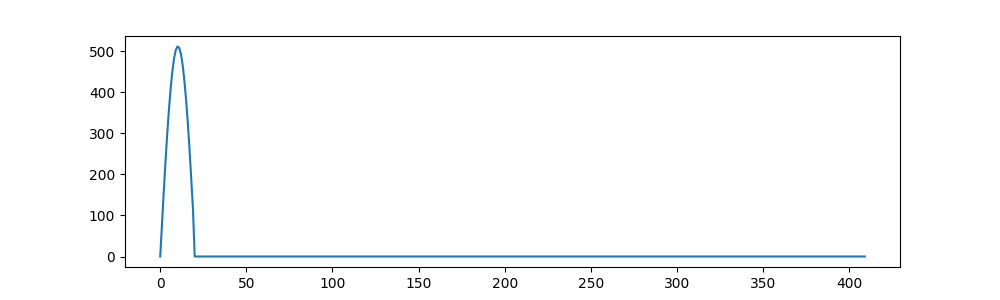
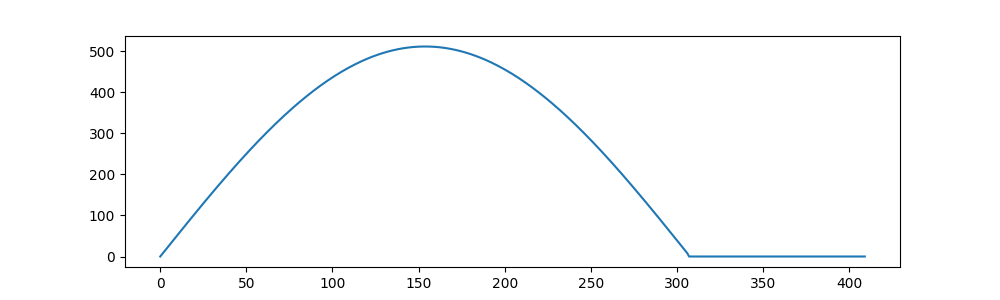
backup

diff --git a/framework_heartsim_continuous.py b/framework_heartsim_continuous.py
@@ -11,237 +11,8 @@ import time
 import paho.mqtt.client as mqtt
 import threading
 from scipy import signal
-import netifaces
 
-
-
-"""
-************************ Used for Label Upload ************************
-"""
-
-
-# def get_mac(interface='eth0'):
-#     return netifaces.ifaddresses(interface)[netifaces.AF_LINK][0]['addr']
-
-
-def pack_beddot_data(mac_addr, timestamp, data_interval, data):
-    # First, convert the MAC address into byte sequence
-    mac_bytes = bytes.fromhex(mac_addr.replace(':', ''))
-    # Then, pack each data item sequentially
-    packed_data = struct.pack("!BBBBBB", *mac_bytes)
-    packed_data += struct.pack("H", len(data))  # data length
-    packed_data += struct.pack("L", timestamp)  # timestamp
-    packed_data += struct.pack("I", data_interval)  # data interval 
-
-   # pack measurement data(Blood Oxygen)
-    for item in data:
-        packed_data += struct.pack("i", item)
-    return packed_data
-
-
-# def write_mqtt(hrdata, rrdata, timestamp, fs):
-#     mac_addr=get_mac()
-#     timestamp = int(timestamp * 1000000)
-#     hrdata = np.int32(hrdata)
-#     rrdata = np.int32(rrdata)
-#     Ts = int((1/fs) * 1000000)
-#     packed_data_1 = pack_beddot_data(mac_addr, timestamp, Ts, hrdata) # 10000 equates to fs=1/0.01=100
-#     packed_data_2 = pack_beddot_data(mac_addr, timestamp, Ts, rrdata)
-
-#     client = mqtt.Client()
-#     # client.connect("yuantzg.com", 9183)
-#     client.connect("sensorweb.us", 1883)
-#     mqtt_thread = threading.Thread(target=lambda: client.loop_forever())
-#     mqtt_thread.start()
-
-#     mac_addr_str = mac_addr.replace(":", "")
-#     client.publish(f"/UGA/{mac_addr_str}/hrlabel", packed_data_1, qos=1)
-#     client.publish(f"/UGA/{mac_addr_str}/rrlabel", packed_data_2, qos=1)
-#     print('Published')
-#     return None
-def write_mqtt(hrdata, rrdata, timestamp, fs):
-    mac_addr="12:02:12:02:12:02"
-    timestamp = int(timestamp * 1000000)
-    hrdata = np.int32(hrdata)
-    rrdata = np.int32(rrdata)
-    Ts = int((1/fs) * 1000000)
-    packed_data_1 = pack_beddot_data(mac_addr, timestamp, Ts, hrdata) # 10000 equates to fs=1/0.01=100
-    packed_data_2 = pack_beddot_data(mac_addr, timestamp, Ts, rrdata)
-
-    client = mqtt.Client()
-    client.connect("sensorweb.us", 1883)
-    mqtt_thread = threading.Thread(target=lambda: client.loop_forever())
-    mqtt_thread.start()
-
-
-    client.publish("/UGA/120212021202/hrlabel", packed_data_1, qos=1)
-    client.publish("/UGA/120212021202/rrlabel", packed_data_2, qos=1)
-    print('Published')
-    return None
-
-"""
-************************ Used for Waveform Generation ************************
-"""
-
-
-def generate_increasing_amplitude_wave_array(i,step_size):
-    # Create an array starting from 1.1, increasing by step up to length i
-    step = step_size
-    wave_array = np.arange(1, 1 + step * i, step)
-    return wave_array
-
-
-def pulse_base(min_val, max_val, samples, duration):
-    fs = samples  # Sampling frequency in Hz
-    t = np.linspace(0, duration, fs, endpoint=False)  # 1 second duration
-    duty_cycle = 0.05  # 50% duty cycle
-    f_hr = 1
-    amp =1
-    # Generate pulse waveform
-    pulse_wave = (np.sin(2 * np.pi * f_hr * t) >= np.cos(np.pi * duty_cycle)).astype(int)
-    pulse_wave= ((pulse_wave-np.min(pulse_wave))/(np.max(pulse_wave)-np.min(pulse_wave)) * amp)
-    
-    pulse_wave = signal.resample(pulse_wave,duration*samples)
-    pulse_wave= min_val + ((pulse_wave - np.min(pulse_wave)) / (np.max(pulse_wave) - np.min(pulse_wave))) * (max_val - min_val)
-    pulse_wave = abs(pulse_wave)
-    return pulse_wave
-
-
-def pulse_gen_with_rr(min_val, max_val, samples, duration, hr, rr, rr_step):
-    wave_a = pulse_base(min_val, max_val, samples, 1)
-
-    val = int(np.round(hr/rr))
-    reps = int(np.round(rr/60*duration))
-
-    ## For RR effect
-    if hr < 120: val = val-1
-    scaling_factors = generate_increasing_amplitude_wave_array(val, rr_step)
-    rsa = np.tile(wave_a, len(scaling_factors)) * np.repeat(scaling_factors, len(wave_a))
-    wave_f = np.tile(rsa,reps)
-
-    # Without RR effect
-    # reps = int(hr)
-    # wave_f = np.tile(wave_a, reps)
-
-    new_length = duration*samples
-    wave = np.interp(np.linspace(0, len(wave_f)-1, new_length), np.arange(len(wave_f)), wave_f)
-    wave = min_val + ((wave - np.min(wave)) / (np.max(wave) - np.min(wave))) * (max_val - min_val)
-    wave = abs(wave)
-    return wave
-
-
-
-def sine_wave_base(samples, duty_cycle):
-    f_hr = 0.5 / duty_cycle
-    t = np.linspace(0, 1, samples, endpoint=False)
-    sine_wave = np.sin(2 * np.pi * f_hr * t)[:int(samples * duty_cycle)]
-    zeros = np.zeros(samples - int(samples * duty_cycle))
-    wave = np.concatenate([sine_wave, zeros])
-    return wave
-
-
-
-def sine_gen_with_rr_dc(amp, samples, duty_cycle):
-
-    f_hr = 1
-    duration = 1
-    sampling_rate = samples
-    phase = 0
-
-    val = int(duty_cycle*samples)
-    rem = samples - val
-    zer_array = np.zeros(rem)
-  
-    t = np.linspace(0, duration, int(sampling_rate * duration), endpoint=False)
-    sine_wave = np.sin(2 * np.pi * f_hr * t - phase)
-    wave = sine_wave
-
-    # wave = signal.resample(wave, val)
-    # wave = np.concatenate((zer_array, wave),axis=0)
-    wave = np.where(wave < 0, 0, wave)
-
-    return wave
-
-
-def sine_gen_with_rr_v4(min_amp, max_amp, samples, duration, hr, rr, rr_step):
-    min_val = min_amp
-    max_val = max_amp
-
-    duty_cycle = 0.75
-
-    ## Select base sine wave - with or without Duty Cycle
-    wave = sine_gen_with_rr_dc(max_val, samples, duty_cycle)
-    # wave = sine_wave_base(samples, 0.5)
-
-    ### For RR effect uncomment this
-    val = int(np.round(hr/rr))
-    reps = int(np.round(rr/60*duration))
-    if hr <140: val = val-1
-    scaling_factors = generate_increasing_amplitude_wave_array(val, rr_step)
-    rsa = np.tile(wave, len(scaling_factors)) * np.repeat(scaling_factors, len(wave))
-    wave_f = np.tile(rsa,reps)
-
-    ### For RR effect comment this
-    # reps = int(hr)
-    # wave_f = np.tile(wave, reps)
-
-    ## Resample to intended duration
-    new_length = duration*samples
-    wave = np.interp(np.linspace(0, len(wave_f)-1, new_length), np.arange(len(wave_f)), wave_f)
-    
-    ## Select Normalization
-    wave = min_val + ((wave - np.min(wave)) / (np.max(wave) - np.min(wave))) * (max_val - min_val)
-    
-    wave = abs(wave)
-    return wave
-
-
-def main(hr, rr, rr_step, max_amp, min_amp, waveform, minute, duration=300, samples=410):
-    freq = hr/60
-    delay_req = 1/(samples)
-
-    i2c = busio.I2C(board.SCL, board.SDA)
-    dac = a.MCP4725(i2c, address=0x60)
-
-    try:
-        while(minute>0):
-            if waveform == "pulse":
-                wave = pulse_gen_with_rr(min_amp, max_amp, samples, duration, hr, rr, rr_step)
-            elif waveform == "sine":
-                wave = sine_gen_with_rr_v4(min_amp, max_amp, samples, duration, hr, rr, rr_step)
-            
-            start_time = time.time()
-            print('Start time:', start_time)
-            for i in range(0,len(wave)-1):
-                val = int(wave[i])
-                dac.raw_value = val
-                # delay = delay_req - 0.00041 - 0.00025   
-                delay = delay_req - 0.00041 - 0.00025 - 0.000035
-                time.sleep(delay)
- 
-            end_time = time.time()
-            # print('End time:', end_time)
-            
-            ## Write Labels for 10s, each label after 1s
-            hr_array = np.repeat(hr, duration)
-            rr_array = np.repeat(rr, duration)
-            # write_mqtt(hr_array, rr_array, start_time, 1)
-
-            final_time = time.time()
-            print('Final time:', final_time)
-            total_time = (end_time - start_time)
-            
-            total_cycles = hr/60 * duration
-            frequ = total_cycles/total_time
-
-            calc_hr = 60 * frequ
-            print(f"Calculated HR: {calc_hr:.2f} bpm")
-            print('hr:', hr, "rr:", rr)
-            minute -=1
-            
-    except KeyboardInterrupt:
-        print('End')
-
+from framework_heartsim import main
 
 if __name__== '__main__':
     

diff --git a/framework_heartsim.py b/framework_heartsim.py
@@ -72,10 +72,10 @@ def generate_increasing_amplitude_wave_array(i,step_size):
     return wave_array
 
 
-def pulse_base(min_val, max_val, samples, duration):
+def pulse_base(min_val, max_val, samples, duty_circle, duration):
     fs = samples  # Sampling frequency in Hz
     t = np.linspace(0, duration, fs, endpoint=False)  # 1 second duration
-    duty_cycle = 0.05  # 50% duty cycle
+    # duty_cycle = 0.05  # 50% duty cycle
     f_hr = 1
     amp =1
     # Generate pulse waveform
@@ -88,8 +88,8 @@ def pulse_base(min_val, max_val, samples, duration):
     return pulse_wave
 
 
-def pulse_gen_with_rr(min_val, max_val, samples, duration, hr, rr, rr_step):
-    wave_a = pulse_base(min_val, max_val, samples, 1)
+def pulse_gen_with_rr(min_val, max_val, samples, duty_circle, duration, hr, rr, rr_step):
+    wave_a = pulse_base(min_val, max_val, samples, duty_circle, 1)
 
     val = int(np.round(hr/rr))
     reps = int(np.round(rr/60*duration))
@@ -122,37 +122,37 @@ def sine_wave_base(samples, duty_cycle):
 
 
 
-def sine_gen_with_rr_dc(amp, samples, duty_cycle):
+# def sine_gen_with_rr_dc(amp, samples, duty_cycle):
 
-    f_hr = 1
-    duration = 1
-    sampling_rate = samples
-    phase = 0
+#     f_hr = 1
+#     duration = 1
+#     sampling_rate = samples
+#     phase = 0
 
-    val = int(duty_cycle*samples)
-    rem = samples - val
-    zer_array = np.zeros(rem)
+#     val = int(duty_cycle*samples)
+#     rem = samples - val
+#     zer_array = np.zeros(rem)
   
-    t = np.linspace(0, duration, int(sampling_rate * duration), endpoint=False)
-    sine_wave = np.sin(2 * np.pi * f_hr * t - phase)
-    wave = sine_wave
+#     t = np.linspace(0, duration, int(sampling_rate * duration), endpoint=False)
+#     sine_wave = np.sin(2 * np.pi * f_hr * t - phase)
+#     wave = sine_wave
 
-    # wave = signal.resample(wave, val)
-    # wave = np.concatenate((zer_array, wave),axis=0)
-    wave = np.where(wave < 0, 0, wave)
+#     # wave = signal.resample(wave, val)
+#     # wave = np.concatenate((zer_array, wave),axis=0)
+#     wave = np.where(wave < 0, 0, wave)
 
-    return wave
+#     return wave
 
 
-def sine_gen_with_rr_v4(min_amp, max_amp, samples, duration, hr, rr, rr_step):
+def sine_gen_with_rr_v4(min_amp, max_amp, samples, duty_circle, duration, hr, rr, rr_step):
     min_val = min_amp
     max_val = max_amp
 
-    duty_cycle = 0.75
+    # duty_cycle = 0.75
 
     ## Select base sine wave - with or without Duty Cycle
-    wave = sine_gen_with_rr_dc(max_val, samples, duty_cycle)
-    # wave = sine_wave_base(samples, 0.5)
+    # wave = sine_gen_with_rr_dc(max_val, samples, duty_cycle)
+    wave = sine_wave_base(samples, duty_circle)
 
     ### For RR effect uncomment this
     val = int(np.round(hr/rr))
@@ -177,7 +177,7 @@ def sine_gen_with_rr_v4(min_amp, max_amp, samples, duration, hr, rr, rr_step):
     return wave
 
 
-def main(hr, rr, rr_step, max_amp, min_amp, waveform, minute, duration=180, samples=410):
+def main(hr, rr, rr_step, max_amp, min_amp, waveform, duty_circle, minute, duration=180, samples=410):
     freq = hr/60
     delay_req = 1/(samples)
 
@@ -187,9 +187,9 @@ def main(hr, rr, rr_step, max_amp, min_amp, waveform, minute, duration=180, samp
     try:
         while(minute>0):
             if waveform == "pulse":
-                wave = pulse_gen_with_rr(min_amp, max_amp, samples, duration, hr, rr, rr_step)
+                wave = pulse_gen_with_rr(min_amp, max_amp, samples, duty_circle, duration, hr, rr, rr_step)
             elif waveform == "sine":
-                wave = sine_gen_with_rr_v4(min_amp, max_amp, samples, duration, hr, rr, rr_step)
+                wave = sine_gen_with_rr_v4(min_amp, max_amp, samples, duty_circle, duration, hr, rr, rr_step)
             
             start_time = time.time()
             print('Start time:', start_time)
@@ -242,24 +242,29 @@ if __name__== '__main__':
     if args.option == 1:
         hr, rr, rr_step = 40, 8, 0.01
         max_amp, min_amp = 200, 0
+        duty_circle = 0.25
         waveform = 'sine'
     elif args.option == 2:
         hr, rr, rr_step = 64, 16, 0.02
         max_amp, min_amp =  256, 0
+        duty_circle = 0.5
         waveform = 'sine'
     elif args.option == 3:
         hr, rr, rr_step = 96, 24, 0.04
         max_amp, min_amp =  256, 0
+        duty_circle = 0.5
         waveform = 'sine'   
     elif args.option == 4:
         hr, rr, rr_step = 128, 32, 0.04
         max_amp, min_amp =  256, 0
+        duty_circle = 0.05
         waveform = 'pulse'  
     elif args.option == 5:
         hr, rr, rr_step = 160, 40, 0.04
         max_amp, min_amp =  512, 0
+        duty_circle = 0.05
         waveform = 'pulse'  
     
     print(get_mac())
     
-    main(hr, rr, rr_step, max_amp, min_amp, waveform, args.minute)
+    main(hr, rr, rr_step, max_amp, min_amp, waveform, duty_circle, args.minute)

diff --git a/test.py b/test.py
@@ -17,7 +17,7 @@ def sine_wave(max_amp, min_amp, samples, duty_cycle):
     return apply_amp(wave, max_amp, min_amp)
 
 
-wave = sine_wave(512, 0, 410, 0.05)
+wave = sine_wave(512, 0, 410, 0.75)
 plt.figure(figsize=(10, 3))
 plt.plot(wave)
 plt.savefig('/home/simulator/heartsim_easy/figs/sine_wave_base.png')
